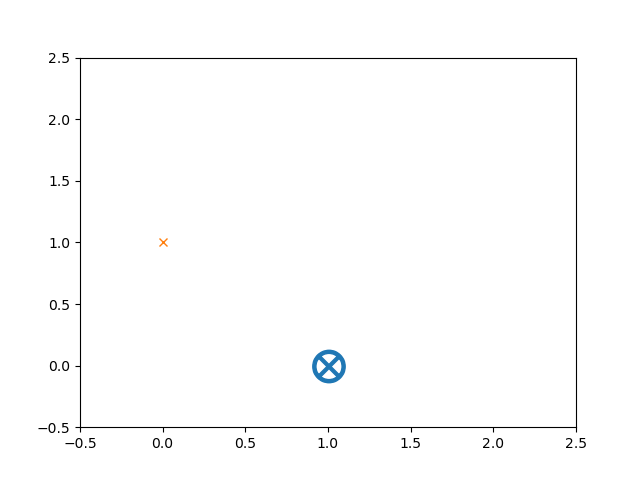
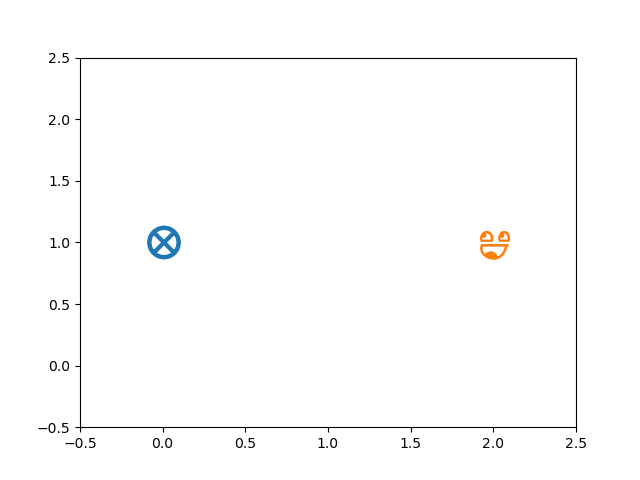
test3

Changed region(s): [[0.4688, 0.7188, 0.5625, 0.8125], [0.75, 0.4688, 0.8125, 0.5625], [0.2188, 0.4688, 0.2812, 0.5625]]

diff --git a/robot_plotter.py b/robot_plotter.py
@@ -1,5 +1,6 @@
 import numpy as np
 import matplotlib.pyplot as plt
+from svgpath2mpl import parse_path
 
 def plot_robot(policy, upMDP):
     MDP = upMDP.sample_MDP()
@@ -30,7 +31,11 @@ def plot_robot(policy, upMDP):
         ax = plt.subplot()
         #print(j_pos)
         ax.plot([r_pos[0]],[r_pos[1]], ms=24, marker=r'$\bigotimes$')
-        ax.plot([j_pos[0]],[j_pos[1]], 'x')
+        
+        smiley = parse_path("""m 739.01202,391.98936 c 13,26 13,57 9,85 -6,27 -18,52 -35,68 -21,20 -50,23 -77,18 -15,-4 -28,-12 -39,-23 -18,-17 -30,-40 -36,-67 -4,-20 -4,-41 0,-60 l 6,-21 z m -302,-1 c 2,3 6,20 7,29 5,28 1,57 -11,83 -15,30 -41,52 -72,60 -29,7 -57,0 -82,-15 -26,-17 -45,-49 -50,-82 -2,-12 -2,-33 0,-45 1,-10 5,-26 8,-30 z M 487.15488,66.132209 c 121,21 194,115.000001 212,233.000001 l 0,8 25,1 1,18 -481,0 c -6,-13 -10,-27 -13,-41 -13,-94 38,-146 114,-193.000001 45,-23 93,-29 142,-26 z m -47,18 c -52,6 -98,28.000001 -138,62.000001 -28,25 -46,56 -51,87 -4,20 -1,57 5,70 l 423,1 c 2,-56 -39,-118 -74,-157 -31,-34 -72,-54.000001 -116,-63.000001 -11,-2 -38,-2 -49,0 z m 138,324.000001 c -5,6 -6,40 -2,58 3,16 4,16 10,10 14,-14 38,-14 52,0 15,18 12,41 -6,55 -3,3 -5,5 -5,6 1,4 22,8 34,7 42,-4 57.6,-40 66.2,-77 3,-17 1,-53 -4,-59 l -145.2,0 z m -331,-1 c -4,5 -5,34 -4,50 2,14 6,24 8,24 1,0 3,-2 6,-5 17,-17 47,-13 58,9 7,16 4,31 -8,43 -4,4 -7,8 -7,9 0,0 4,2 8,3 51,17 105,-20 115,-80 3,-15 0,-43 -3,-53 z m 61,-266 c 0,0 46,-40 105,-53.000001 66,-15 114,7 114,7 0,0 -14,76.000001 -93,95.000001 -76,18 -126,-49 -126,-49 z""")
+        smiley.vertices -= smiley.vertices.mean(axis=0)
+
+        ax.plot([j_pos[0]],[j_pos[1]], marker=smiley, ms=24)
         ax.set_xlim((-0.5,2.5))
         ax.set_ylim((-0.5,2.5))
         plt.savefig("robot_plots/{0:0=2d}.png".format(i))
